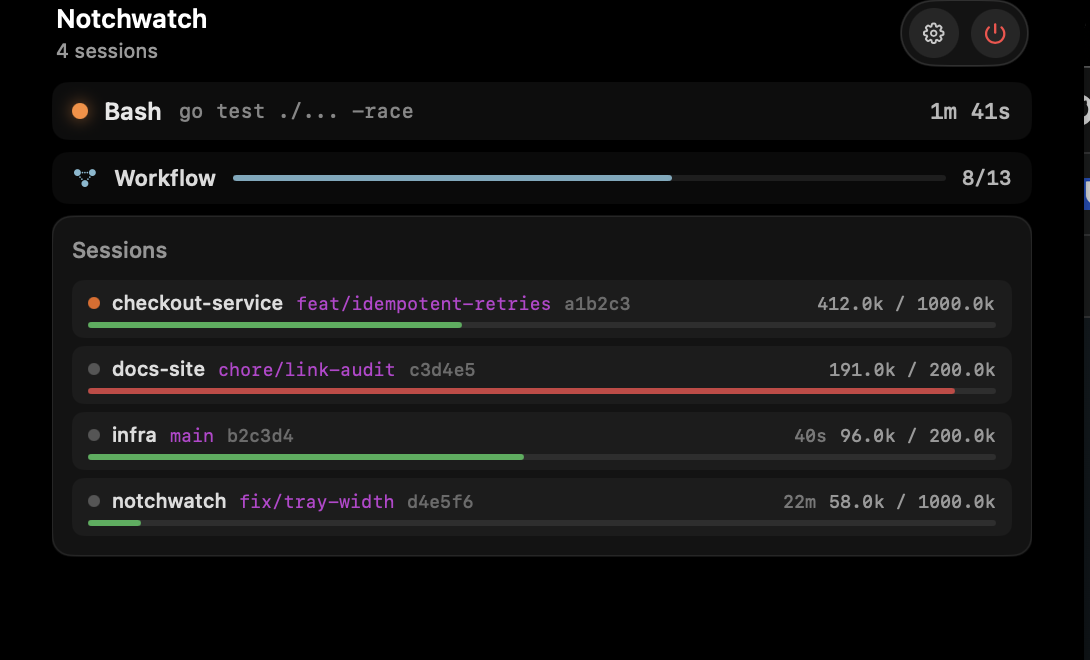
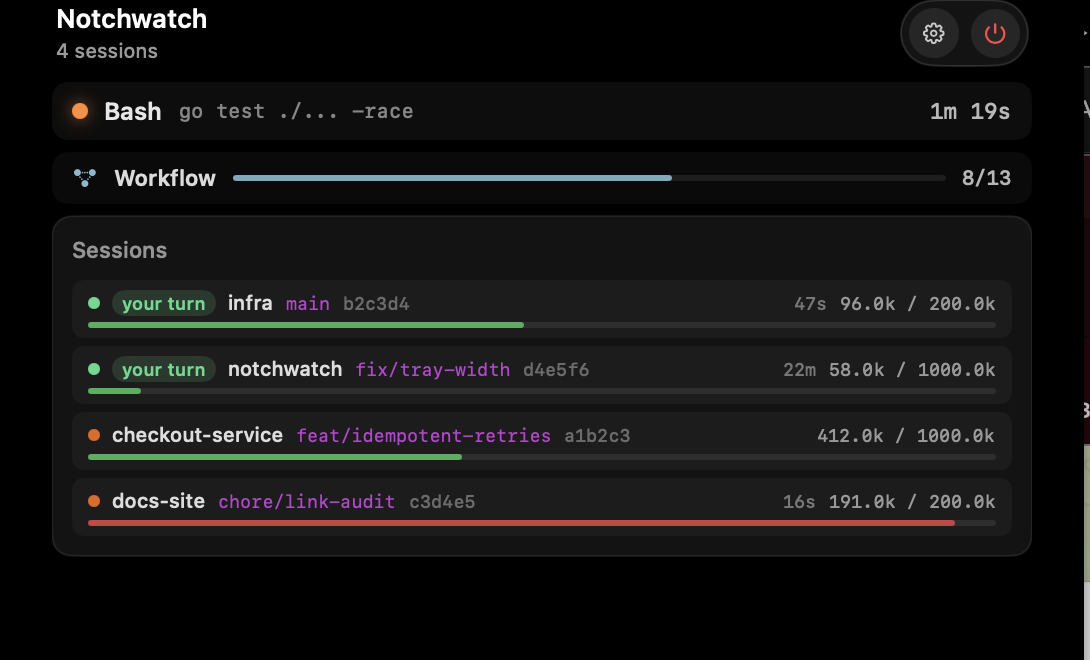
fix(sessions): say which session is calling you
The notch goes green, you look, and every row is identical. Four states were
being drawn as two: a session waiting on a reply shared the idle grey, and one
waiting on permission was within a shade of the working orange. The list is
opened to answer exactly one question — which of these wants me — and it did
not answer it.

Rows now carry their own standing: colour, a spelled-out badge for the two
that are asking for something, and an order that floats them above the rest.
The badge is not decoration; four hues in a small row are hard to hold apart,
and impossible for a reader who does not separate red from green.

The row states the fact, not the notification. The notch border clears when
you look, because it is an alarm; a session that is waiting is still waiting
after it has been seen, so the row keeps saying so until it is answered.

Demo mode was stopping the scan timer and leaving three others running, so a
fixture installed for a screenshot was flattened to "idle" three to ten
seconds later by the idle clocks — which is why the first attempts at this
screenshot showed grey rows and no badges, and cost an hour of looking in the
wrong place. Stopping one clock and leaving three is not stopping the clocks.

Assisted-By: Claude <noreply@anthropic.com>

diff --git a/Sources/Notchwatch/Views/ClaudeCode/SessionListView.swift b/Sources/Notchwatch/Views/ClaudeCode/SessionListView.swift
@@ -30,8 +30,12 @@ struct SessionListView: View {
                 manager.sessionStates[session.id].map { (session, $0) }
             }
             .sorted { lhs, rhs in
-                if lhs.1.isActive != rhs.1.isActive {
-                    return lhs.1.isActive
+                // Whatever is asking for the user comes first — that is the
+                // question the list is opened to answer. Recency only orders
+                // sessions of equal standing.
+                let left = Standing(lhs.1), right = Standing(rhs.1)
+                if left.rank != right.rank {
+                    return left.rank < right.rank
                 }
                 return (lhs.1.lastUpdateTime ?? .distantPast) > (rhs.1.lastUpdateTime ?? .distantPast)
             }
@@ -100,22 +104,25 @@ private struct SessionRow: View {
         return .green
     }
 
-    private var statusColor: Color {
-        if state.needsPermission {
-            return .orange
-        }
-        if state.isActive {
-            return Color(red: 0.9, green: 0.4, blue: 0.1)
-        }
-        return .white.opacity(0.25)
+    private var standing: Standing {
+        Standing(state)
     }
 
     var body: some View {
         VStack(spacing: 3) {
             HStack(spacing: 6) {
                 Circle()
-                    .fill(statusColor)
+                    .fill(standing.color)
                     .frame(width: 6, height: 6)
+
+                if let label = standing.label {
+                    Text(label)
+                        .font(.system(size: 9, weight: .semibold))
+                        .foregroundColor(standing.color)
+                        .padding(.horizontal, 5)
+                        .padding(.vertical, 1)
+                        .background(standing.color.opacity(0.15), in: Capsule())
+                }
 
                 Text(projectName)
                     .font(.system(size: 10, weight: .medium))
@@ -176,4 +183,66 @@ func formatTokens(_ count: Int) -> String {
         return String(format: "%.1fk", Double(count) / 1000.0)
     }
     return "\(count)"
+}
+
+/// What the row is telling the reader.
+///
+/// Four states, and the two that want the user were previously
+/// indistinguishable from the two that do not: a session awaiting a reply
+/// shared the idle grey, and one awaiting permission was within a shade of
+/// the working orange. Reading the list to find "which of these is calling
+/// me" was therefore guesswork — which is the only question the list is
+/// opened to answer when the notch has gone green.
+///
+/// This is deliberately the plain fact, not the notch's notification: the
+/// border clears once the user looks, because it is an alarm. A session that
+/// is waiting is still waiting after it has been seen, so the row keeps
+/// saying so until it is answered.
+private enum Standing {
+    case needsPermission
+    case awaitingReply
+    case working
+    case idle
+
+    var color: Color {
+        switch self {
+        case .needsPermission: Color(red: 1.0, green: 0.72, blue: 0.2)
+        case .awaitingReply: Color(red: 0.3, green: 0.85, blue: 0.55)
+        case .working: Color(red: 0.9, green: 0.4, blue: 0.1)
+        case .idle: Color.white.opacity(0.25)
+        }
+    }
+
+    /// Spelled out for the two that are asking for something. Colour alone
+    /// is a poor carrier — four hues in a small row are hard to hold apart,
+    /// and impossible for a reader who does not separate red from green.
+    var label: String? {
+        switch self {
+        case .needsPermission: "needs you"
+        case .awaitingReply: "your turn"
+        case .working, .idle: nil
+        }
+    }
+
+    /// Rows sort by this: the ones asking for something first.
+    var rank: Int {
+        switch self {
+        case .needsPermission: 0
+        case .awaitingReply: 1
+        case .working: 2
+        case .idle: 3
+        }
+    }
+
+    init(_ state: ClaudeCodeState) {
+        if state.needsPermission {
+            self = .needsPermission
+        } else if state.isSessionComplete {
+            self = .awaitingReply
+        } else if state.isActive {
+            self = .working
+        } else {
+            self = .idle
+        }
+    }
 }

diff --git a/Sources/Notchwatch/Core/ClaudeCode/ClaudeCodeManager.swift b/Sources/Notchwatch/Core/ClaudeCode/ClaudeCodeManager.swift
@@ -372,8 +372,21 @@ final class ClaudeCodeManager: ObservableObject {
     func enterDemoMode(_ variant: DemoScenario.Variant = .busy) {
         isDemoMode = true
 
+        // Every clock, not just the scan. The idle timers fire three and ten
+        // seconds after the last activity and rewrite whatever state they find —
+        // so a fixture installed for a screenshot was quietly flattened to
+        // "idle" a few seconds later, and the capture caught the wreckage rather
+        // than the picture. Stopping one clock and leaving three is not stopping
+        // the clocks.
         sessionScanTimer?.invalidate()
         sessionScanTimer = nil
+        idleCheckTimer?.invalidate()
+        idleCheckTimer = nil
+        toolIdleTimer?.invalidate()
+        toolIdleTimer = nil
+        permissionCheckTimer?.invalidate()
+        permissionCheckTimer = nil
+
         for key in Array(watched.keys) {
             detach(sessionKey: key)
         }

diff --git a/README.md b/README.md
@@ -4,7 +4,7 @@ Claude Code session state in the notch of your Mac.
 
 Notchwatch is a menu-bar/notch companion for [Claude Code](https://claude.com/claude-code). It sits in the notch (or the menu bar on Macs without one) and shows what the agent is doing right now: the tool it is running, whether it is thinking, whether it is waiting for a permission decision, the current todo list, elapsed time, git branch, token usage and how much of the context window is left.
 
-![The expanded panel: current tool with a clock, workflow progress, and one row per live session with its own context bar](docs/panel.png)
+![The expanded panel: current tool with a clock, workflow progress, and one row per live session — the ones waiting on you badged and sorted to the top](docs/panel.png)
 
 Closed — which is how it spends almost all of its time — the panel collapses to one capsule under the cut-out, and the outline carries the state:
 
